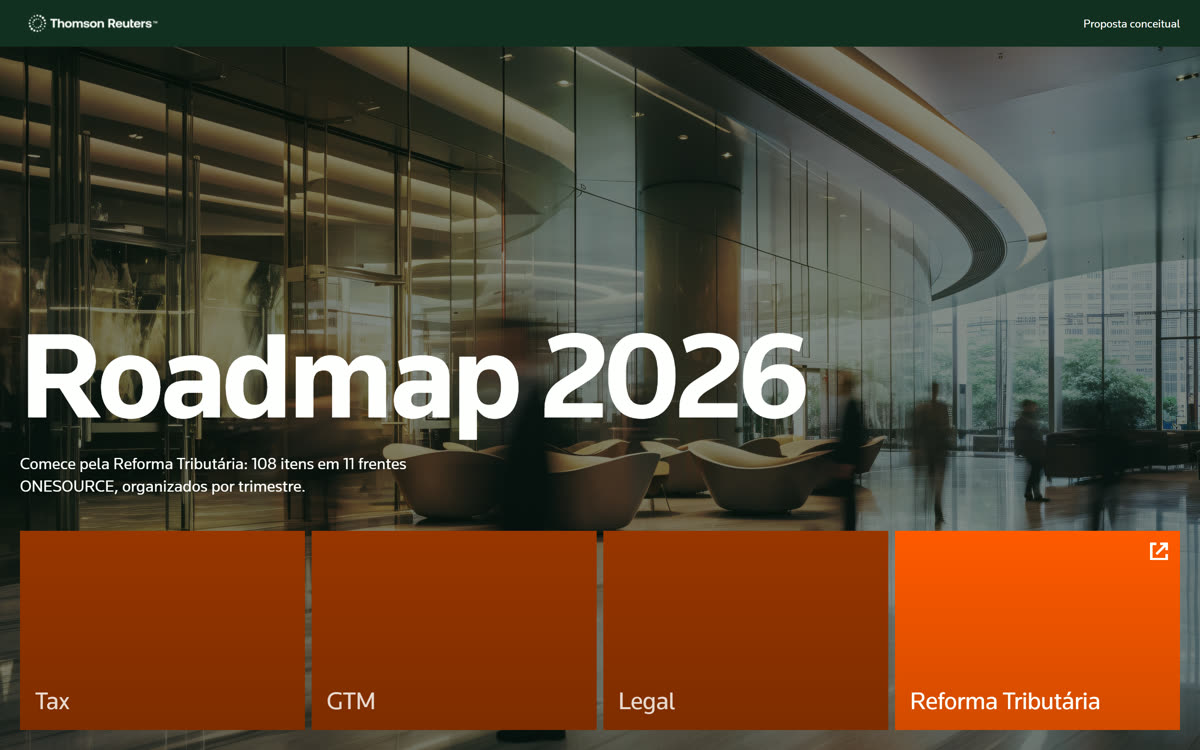
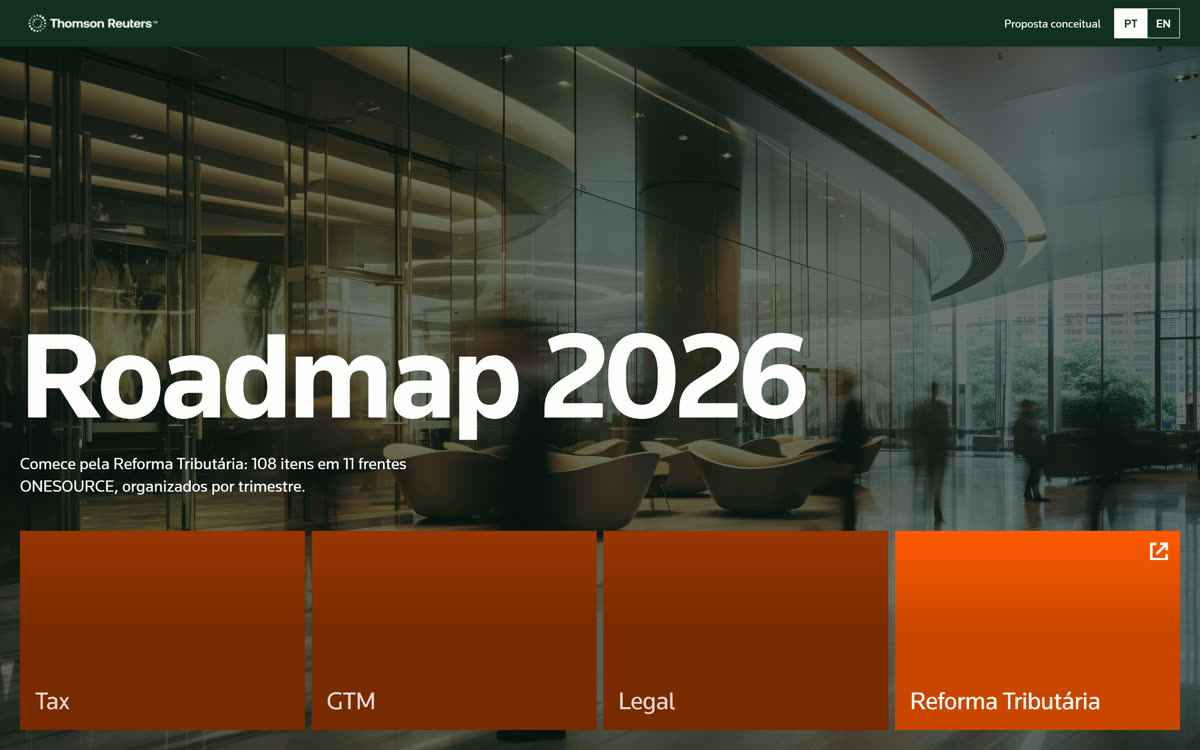
Atualiza capturas e landing do roadmap com o seletor de idioma

diff --git a/index.html b/index.html
@@ -1,6 +1,6 @@
 <!doctype html>
 <html lang="en"><head><meta charset="utf-8"><meta name="viewport" content="width=device-width,initial-scale=1"><meta name="theme-color" content="#1c1d1f"><title>Projects | Romulo Nascimento</title><meta name="description" content="Projects. Romulo Nascimento’s UX portfolio: digital products, 3D experiences and games."><meta property="og:title" content="Projects | Romulo Nascimento"><meta property="og:type" content="website"><meta property="og:url" content="https://romuload.github.io/"><meta property="og:image" content="https://romuload.github.io/images/repar-3d.png"><link rel="stylesheet" href="tokens.css?v=ux-1"><link rel="stylesheet" href="styles.css?v=ux-1"><script src="main.js" defer></script><link rel="stylesheet" href="locale.css?v=ux-1"><script src="locale-data.js?v=ux-6"></script><script src="locale.js?v=staffing-inbox-1" defer></script><link rel="icon" href="favicon.svg?v=plane-2" type="image/svg+xml"><link rel="alternate icon" href="favicon.ico?v=plane-2"><link rel="icon" type="image/png" href="favicon-32.png?v=plane-2" sizes="32x32"><link rel="icon" type="image/png" href="favicon-16.png?v=plane-2" sizes="16x16"><link rel="apple-touch-icon" href="apple-touch-icon.png?v=plane-2"><link rel="stylesheet" href="mockups.css?v=petrobras-mark-3"><link rel="stylesheet" href="profile.css?v=ux-1"><link rel="stylesheet" href="fiat-gallery.css?v=2"><link rel="stylesheet" href="phone-mockup.css?v=1"><link rel="stylesheet" href="laptop-mockup.css?v=1"><link rel="stylesheet" href="porto-gallery.css?v=3"><link rel="stylesheet" href="typography.css?v=ux-1"><script src="typography.js?v=widows-1" defer></script><link rel="stylesheet" href="system.css?v=ux-3"></head><body><a class="skip" href="#conteudo">Skip to content</a><div class="opening"><header class="header wrap"><a class="identity" href="index.html" aria-label="Romulo Nascimento, projects page"><img class="brand-symbol" src="images/brand/paper-plane.svg?v=2" width="58" height="42" alt=""><span class="name-text">Romulo Nascimento<small>Product Designer</small></span></a><nav aria-label="Main navigation"><a href="index.html" aria-current="page">Projects</a><a href="sobre.html">About me</a><a href="trabalhe-comigo.html">Work with me</a></nav><div class="lang-switch" role="group" aria-label="Choose language"><button type="button" data-language="en" aria-pressed="true" lang="en" aria-label="English">EN</button><button type="button" data-language="pt" aria-pressed="false" lang="pt-BR" aria-label="Português">PT</button></div></header><section class="intro wrap"><h1>Design connecting business,  technology and people.</h1><div class="brand-strip"><div class="brand-heading"><p>I’ve done work for</p><button id="logo-motion" class="carousel-control" type="button" aria-pressed="false">Pause carousel</button></div><div class="logo-window" role="region" aria-label="Clients: Petrobras, Itaú, Porto, Fiat, Thomson Reuters and Sonda IT"><div class="logo-track"><div class="logo-group"><div class="logo-slot"><img src="images/petrobras-mono.svg" alt="Petrobras" width="170" height="60" class="logo-petrobras"></div><div class="logo-slot"><img src="images/itau.svg" alt="Itaú" width="170" height="60" class="logo-itau"></div><div class="logo-slot"><img src="images/porto.svg" alt="Porto" width="170" height="60" class="logo-porto"></div><div class="logo-slot"><img src="images/fiat.svg" alt="Fiat" width="170" height="60" class="logo-fiat"></div><div class="logo-slot"><img src="images/thomson-reuters.svg" alt="Thomson Reuters" width="170" height="60" class="logo-thomson"></div><div class="logo-slot"><img src="images/sonda.svg" alt="Sonda IT" width="170" height="60" class="logo-sonda"></div></div><div class="logo-group" aria-hidden="true"><div class="logo-slot"><img src="images/petrobras-mono.svg" alt="" width="170" height="60" class="logo-petrobras"></div><div class="logo-slot"><img src="images/itau.svg" alt="" width="170" height="60" class="logo-itau"></div><div class="logo-slot"><img src="images/porto.svg" alt="" width="170" height="60" class="logo-porto"></div><div class="logo-slot"><img src="images/fiat.svg" alt="" width="170" height="60" class="logo-fiat"></div><div class="logo-slot"><img src="images/thomson-reuters.svg" alt="" width="170" height="60" class="logo-thomson"></div><div class="logo-slot"><img src="images/sonda.svg" alt="" width="170" height="60" class="logo-sonda"></div></div></div></div></div></section></div><main id="conteudo"><section class="projects wrap"><div class="section-line"><p>UX, interfaces and interactive experiences that turn complex subjects into simple paths.</p><h2>Selected projects</h2></div><div class="project-grid"><article class="project reveal"><div class="project-image image-porto laptop-stage" role="img" aria-label="Porto Seguro · Claims experience: interactive demo in a laptop mockup"><div class="laptop" aria-hidden="true"><div class="laptop-lid"><div class="laptop-screen"><div class="laptop-bar"><i></i><i></i><i></i><span>romuload.github.io</span></div><img src="images/porto/screen-dashboard.webp" width="1440" height="900" alt="" loading="lazy"></div></div><div class="laptop-base"></div></div></div><div class="project-meta"><span>Porto Seguro</span><span>Enterprise UX · Salesforce</span></div><h3>How I reduced claims analysis time by up to 60% at Porto Seguro</h3><p>Strategic redesign of a 40-year-old legacy platform, accelerating decision-making and increasing analyst confidence.</p><div class="project-links"><a class="button button-primary" href="projeto-porto.html" aria-label="Inside the project: How I reduced claims analysis time by up to 60% at Porto Seguro">Inside the project <span aria-hidden="true"><svg class="ico" viewBox="0 0 24 24" fill="none" stroke="currentColor" stroke-width="2" stroke-linecap="round" stroke-linejoin="round" aria-hidden="true"><path d="M5 12h14M13 6l6 6-6 6"/></svg></span></a><a class="button button-secondary" href="https://romuload.github.io/porto-salerforce-demo/" target="_blank" rel="noopener" aria-label="Explore the Porto Seguro demo in a new tab">Explore the demo <span aria-hidden="true"><svg class="ico" viewBox="0 0 24 24" fill="none" stroke="currentColor" stroke-width="2" stroke-linecap="round" stroke-linejoin="round" aria-hidden="true"><path d="M7 17 17 7M8 7h9v9"/></svg></span></a></div></article><article class="project reveal"><div class="project-image image-staffing laptop-stage" role="img" aria-label="GFT · Staffing Platform: working version in a laptop mockup"><div class="laptop" aria-hidden="true"><div class="laptop-lid"><div class="laptop-screen"><div class="laptop-bar"><i></i><i></i><i></i><span>romuload.github.io</span></div><img src="images/staffing/screen-disponiveis.webp" width="1440" height="900" alt="" loading="lazy"></div></div><div class="laptop-base"></div></div></div><div class="project-meta"><span>GFT Technologies</span><span>Product Design · Internal product</span></div><h3>How I helped GFT cut the cost of its bench by 72%</h3><p>An internal product that replaced a spreadsheet emailed every morning, and turned reallocating people between projects into a process with clear rules.</p><div class="project-links"><a class="button button-primary" href="projeto-staffing.html" aria-label="Inside the project: How I helped GFT cut the cost of its bench by 72%">Inside the project <span aria-hidden="true"><svg class="ico" viewBox="0 0 24 24" fill="none" stroke="currentColor" stroke-width="2" stroke-linecap="round" stroke-linejoin="round" aria-hidden="true"><path d="M5 12h14M13 6l6 6-6 6"/></svg></span></a><a class="button button-secondary" href="staffing-concept/index.html" target="_blank" rel="noopener" aria-label="Explore the GFT Staffing demo in a new tab">Explore the demo <span aria-hidden="true"><svg class="ico" viewBox="0 0 24 24" fill="none" stroke="currentColor" stroke-width="2" stroke-linecap="round" stroke-linejoin="round" aria-hidden="true"><path d="M7 17 17 7M8 7h9v9"/></svg></span></a></div></article>
-<article class="project reveal"><div class="project-image image-roadmap laptop-stage" role="img" aria-label="Thomson Reuters roadmap proposal: desktop and mobile screens in laptop and phone mockups" style="--status-bg:#123021"><div class="laptop" aria-hidden="true"><div class="laptop-lid"><div class="laptop-screen"><div class="laptop-bar"><i></i><i></i><i></i><span>romuload.github.io</span></div><img src="images/roadmap/screen-home.webp" width="2880" height="1800" alt="" loading="lazy"></div></div><div class="laptop-base"></div></div><div class="iphone phone-dark" aria-hidden="true"><i class="iphone-key iphone-action"></i><i class="iphone-key iphone-vol-up"></i><i class="iphone-key iphone-vol-down"></i><i class="iphone-key iphone-power"></i><div class="iphone-body"><div class="iphone-bezel"><div class="iphone-screen"><div class="iphone-status"><span>9:41</span><i class="iphone-island"></i><i class="iphone-icons"></i></div><img src="images/phone/roadmap.jpg" width="780" height="1580" alt="" loading="lazy"><div class="iphone-safari"><i class="safari-btn safari-back"></i><span class="safari-url">romuload.github.io</span><i class="safari-btn safari-more"></i></div><i class="iphone-home"></i></div></div></div></div></div><div class="project-meta"><span>Thomson Reuters</span><span>Web design · Proposal</span></div><h3>A new proposal for the Thomson Reuters product roadmap</h3><p>I created this website in 2021, and it’s still live for customers. With Claude, I created a new proposal in 30 minutes.</p><div class="project-links"><a class="button button-primary" href="projeto-roadmap.html" aria-label="Inside the project: A new proposal for the Thomson Reuters product roadmap">Inside the project <span aria-hidden="true"><svg class="ico" viewBox="0 0 24 24" fill="none" stroke="currentColor" stroke-width="2" stroke-linecap="round" stroke-linejoin="round" aria-hidden="true"><path d="M5 12h14M13 6l6 6-6 6"/></svg></span></a><a class="button button-secondary" href="https://romuload.github.io/roadmap-tr/" target="_blank" rel="noopener" aria-label="Explore the Thomson Reuters roadmap demo in a new tab">Explore the demo <span aria-hidden="true"><svg class="ico" viewBox="0 0 24 24" fill="none" stroke="currentColor" stroke-width="2" stroke-linecap="round" stroke-linejoin="round" aria-hidden="true"><path d="M7 17 17 7M8 7h9v9"/></svg></span></a></div></article>
+<article class="project reveal"><div class="project-image image-roadmap laptop-stage" role="img" aria-label="Thomson Reuters roadmap proposal: desktop and mobile screens in laptop and phone mockups" style="--status-bg:#123021"><div class="laptop" aria-hidden="true"><div class="laptop-lid"><div class="laptop-screen"><div class="laptop-bar"><i></i><i></i><i></i><span>romuload.github.io</span></div><img src="images/roadmap/screen-home.webp?v=2" width="2880" height="1800" alt="" loading="lazy"></div></div><div class="laptop-base"></div></div><div class="iphone phone-dark" aria-hidden="true"><i class="iphone-key iphone-action"></i><i class="iphone-key iphone-vol-up"></i><i class="iphone-key iphone-vol-down"></i><i class="iphone-key iphone-power"></i><div class="iphone-body"><div class="iphone-bezel"><div class="iphone-screen"><div class="iphone-status"><span>9:41</span><i class="iphone-island"></i><i class="iphone-icons"></i></div><img src="images/phone/roadmap.jpg?v=2" width="780" height="1580" alt="" loading="lazy"><div class="iphone-safari"><i class="safari-btn safari-back"></i><span class="safari-url">romuload.github.io</span><i class="safari-btn safari-more"></i></div><i class="iphone-home"></i></div></div></div></div></div><div class="project-meta"><span>Thomson Reuters</span><span>Web design · Proposal</span></div><h3>A new proposal for the Thomson Reuters product roadmap</h3><p>I created this website in 2021, and it’s still live for customers. With Claude, I created a new proposal in 30 minutes.</p><div class="project-links"><a class="button button-primary" href="projeto-roadmap.html" aria-label="Inside the project: A new proposal for the Thomson Reuters product roadmap">Inside the project <span aria-hidden="true"><svg class="ico" viewBox="0 0 24 24" fill="none" stroke="currentColor" stroke-width="2" stroke-linecap="round" stroke-linejoin="round" aria-hidden="true"><path d="M5 12h14M13 6l6 6-6 6"/></svg></span></a><a class="button button-secondary" href="https://romuload.github.io/roadmap-tr/" target="_blank" rel="noopener" aria-label="Explore the Thomson Reuters roadmap demo in a new tab">Explore the demo <span aria-hidden="true"><svg class="ico" viewBox="0 0 24 24" fill="none" stroke="currentColor" stroke-width="2" stroke-linecap="round" stroke-linejoin="round" aria-hidden="true"><path d="M7 17 17 7M8 7h9v9"/></svg></span></a></div></article>
 <article class="project reveal"><div class="project-image image-repar phone-stage phone-dark" role="img" aria-label="Explore REPAR 3D: mobile screen in a phone mockup" style="--status-bg:#0e2133"><div class="iphone" aria-hidden="true"><i class="iphone-key iphone-action"></i><i class="iphone-key iphone-vol-up"></i><i class="iphone-key iphone-vol-down"></i><i class="iphone-key iphone-power"></i><div class="iphone-body"><div class="iphone-bezel"><div class="iphone-screen"><div class="iphone-status"><span>9:41</span><i class="iphone-island"></i><i class="iphone-icons"></i></div><img src="images/phone/repar.jpg" width="780" height="1580" alt="" loading="lazy"><div class="iphone-safari"><i class="safari-btn safari-back"></i><span class="safari-url">romuload.github.io</span><i class="safari-btn safari-more"></i></div><i class="iphone-home"></i></div></div></div></div></div><div class="project-meta"><span>Petrobras</span><span>Interactive experience</span></div><h3>Explore REPAR 3D</h3><p>From the original illustrated journey to an interactive 3D refinery.</p><div class="project-links"><a class="button button-primary" href="projeto-repar.html" aria-label="Inside the project: Explore REPAR 3D">Inside the project <span aria-hidden="true"><svg class="ico" viewBox="0 0 24 24" fill="none" stroke="currentColor" stroke-width="2" stroke-linecap="round" stroke-linejoin="round" aria-hidden="true"><path d="M5 12h14M13 6l6 6-6 6"/></svg></span></a><a class="button button-secondary" href="https://romuload.github.io/conheca_repar_versao3d/" target="_blank" rel="noopener" aria-label="Explore the REPAR 3D demo in a new tab">Explore the demo <span aria-hidden="true"><svg class="ico" viewBox="0 0 24 24" fill="none" stroke="currentColor" stroke-width="2" stroke-linecap="round" stroke-linejoin="round" aria-hidden="true"><path d="M7 17 17 7M8 7h9v9"/></svg></span></a></div></article><article class="project reveal"><div class="project-image image-ilab phone-stage" role="img" aria-label="iLab 3.0: mobile screen in a phone mockup" style="--status-bg:#ffffff"><div class="iphone" aria-hidden="true"><i class="iphone-key iphone-action"></i><i class="iphone-key iphone-vol-up"></i><i class="iphone-key iphone-vol-down"></i><i class="iphone-key iphone-power"></i><div class="iphone-body"><div class="iphone-bezel"><div class="iphone-screen"><div class="iphone-status"><span>9:41</span><i class="iphone-island"></i><i class="iphone-icons"></i></div><img src="images/phone/ilab.jpg" width="780" height="1580" alt="" loading="lazy"><div class="iphone-safari"><i class="safari-btn safari-back"></i><span class="safari-url">romuload.github.io</span><i class="safari-btn safari-more"></i></div><i class="iphone-home"></i></div></div></div></div></div><div class="project-meta"><span>Petrobras</span><span>UX/UI &amp; prototyping</span></div><h3>iLab 3.0</h3><p>Queries, results and a 3D bench in one experience.</p><div class="project-links"><a class="button button-primary" href="projeto-ilab.html" aria-label="Inside the project: iLab 3.0">Inside the project <span aria-hidden="true"><svg class="ico" viewBox="0 0 24 24" fill="none" stroke="currentColor" stroke-width="2" stroke-linecap="round" stroke-linejoin="round" aria-hidden="true"><path d="M5 12h14M13 6l6 6-6 6"/></svg></span></a><a class="button button-secondary" href="https://romuload.github.io/ilab/" target="_blank" rel="noopener" aria-label="Explore the iLab 3.0 demo in a new tab">Explore the demo <span aria-hidden="true"><svg class="ico" viewBox="0 0 24 24" fill="none" stroke="currentColor" stroke-width="2" stroke-linecap="round" stroke-linejoin="round" aria-hidden="true"><path d="M7 17 17 7M8 7h9v9"/></svg></span></a></div></article><article class="project reveal"><div class="project-image image-games phone-stage" role="img" aria-label="REPAR Word Search: mobile screen in a phone mockup" style="--status-bg:#ffffff"><div class="iphone" aria-hidden="true"><i class="iphone-key iphone-action"></i><i class="iphone-key iphone-vol-up"></i><i class="iphone-key iphone-vol-down"></i><i class="iphone-key iphone-power"></i><div class="iphone-body"><div class="iphone-bezel"><div class="iphone-screen"><div class="iphone-status"><span>9:41</span><i class="iphone-island"></i><i class="iphone-icons"></i></div><img src="images/phone/games.jpg" width="780" height="1580" alt="" loading="lazy"><div class="iphone-safari"><i class="safari-btn safari-back"></i><span class="safari-url">romuload.github.io</span><i class="safari-btn safari-more"></i></div><i class="iphone-home"></i></div></div></div></div></div><div class="project-meta"><span>Petrobras</span><span>Games &amp; aprendizagem</span></div><h3>REPAR Word Search</h3><p>The refinery&#x27;s world in a discovery game for desktop and mobile.</p><div class="project-links"><a class="button button-primary" href="projeto-games.html" aria-label="Inside the project: REPAR Word Search">Inside the project <span aria-hidden="true"><svg class="ico" viewBox="0 0 24 24" fill="none" stroke="currentColor" stroke-width="2" stroke-linecap="round" stroke-linejoin="round" aria-hidden="true"><path d="M5 12h14M13 6l6 6-6 6"/></svg></span></a><a class="button button-secondary" href="https://romuload.github.io/caca-palavras/" target="_blank" rel="noopener" aria-label="Explore the REPAR Word Search demo in a new tab">Explore the demo <span aria-hidden="true"><svg class="ico" viewBox="0 0 24 24" fill="none" stroke="currentColor" stroke-width="2" stroke-linecap="round" stroke-linejoin="round" aria-hidden="true"><path d="M7 17 17 7M8 7h9v9"/></svg></span></a></div></article>
 <article class="project reveal"><div class="project-image image-fiat phone-stage phone-dark" role="img" aria-label="FIAT · Water Cycle: mobile screen in a phone mockup" style="--status-bg:#090e14"><div class="iphone" aria-hidden="true"><i class="iphone-key iphone-action"></i><i class="iphone-key iphone-vol-up"></i><i class="iphone-key iphone-vol-down"></i><i class="iphone-key iphone-power"></i><div class="iphone-body"><div class="iphone-bezel"><div class="iphone-screen"><div class="iphone-status"><span>9:41</span><i class="iphone-island"></i><i class="iphone-icons"></i></div><img src="images/phone/fiat.jpg" width="780" height="1580" alt="" loading="lazy"><div class="iphone-safari"><i class="safari-btn safari-back"></i><span class="safari-url">romuload.github.io</span><i class="safari-btn safari-more"></i></div><i class="iphone-home"></i></div></div></div></div></div><div class="project-meta"><span>FIAT</span><span>3D & motion design</span></div><h3>FIAT · Water Cycle</h3><p>An interactive journey through water treatment and reuse, with motion deliverables.</p><div class="project-links"><a class="button button-primary" href="projeto-fiat.html" aria-label="Inside the project: FIAT · Water Cycle">Inside the project <span aria-hidden="true"><svg class="ico" viewBox="0 0 24 24" fill="none" stroke="currentColor" stroke-width="2" stroke-linecap="round" stroke-linejoin="round" aria-hidden="true"><path d="M5 12h14M13 6l6 6-6 6"/></svg></span></a><a class="button button-secondary" href="https://romuload.github.io/fiat-agua-em-ciclo/" target="_blank" rel="noopener" aria-label="Explore the FIAT · Water Cycle demo in a new tab">Explore the demo <span aria-hidden="true"><svg class="ico" viewBox="0 0 24 24" fill="none" stroke="currentColor" stroke-width="2" stroke-linecap="round" stroke-linejoin="round" aria-hidden="true"><path d="M7 17 17 7M8 7h9v9"/></svg></span></a></div></article>
 </div></section></main><footer class="wrap"><span>© <span id="year">2026</span> Romulo Nascimento</span><a href="trabalhe-comigo.html">Work with me</a></footer><script>(function(){var h=document.querySelector('.opening>.header');if(!h)return;function u(){h.classList.toggle('is-stuck',window.scrollY>8)}addEventListener('scroll',u,{passive:true});u()})();</script></body></html>

diff --git a/projeto-roadmap.html b/projeto-roadmap.html
@@ -1,2 +1,2 @@
 <!doctype html>
-<html lang="en"><head><meta charset="utf-8"><meta name="viewport" content="width=device-width,initial-scale=1"><meta name="theme-color" content="#0c1f16"><title>Thomson Reuters roadmap · Proposal | Romulo Nascimento</title><meta name="description" content="A new proposal for the Thomson Reuters product roadmap, by Romulo Nascimento."><meta property="og:title" content="Thomson Reuters roadmap · Proposal | Romulo Nascimento"><meta property="og:type" content="website"><meta property="og:url" content="https://romuload.github.io/projeto-roadmap.html"><meta property="og:image" content="https://romuload.github.io/images/roadmap/og.jpg"><script src="repar-case.js" defer></script><link rel="stylesheet" href="tokens.css?v=ux-1"><link rel="stylesheet" href="locale.css?v=ux-1"><script src="locale-data.js?v=ux-7"></script><script src="locale.js?v=staffing-inbox-1" defer></script><link rel="icon" href="favicon.svg?v=plane-2" type="image/svg+xml"><link rel="alternate icon" href="favicon.ico?v=plane-2"><link rel="icon" type="image/png" href="favicon-32.png?v=plane-2" sizes="32x32"><link rel="icon" type="image/png" href="favicon-16.png?v=plane-2" sizes="16x16"><link rel="apple-touch-icon" href="apple-touch-icon.png?v=plane-2"><link rel="stylesheet" href="repar-case.css?v=ux-1"><link rel="stylesheet" href="roadmap-case.css?v=1"><link rel="stylesheet" href="typography.css?v=ux-1"><script src="typography.js?v=widows-1" defer></script><link rel="stylesheet" href="system.css?v=ux-3"></head><body><a class="case-skip" href="#conteudo">Skip to content</a><header class="top"><a class="portfolio-home" href="index.html" aria-label="Romulo Nascimento, projects page"><img class="brand-symbol" src="images/brand/paper-plane.svg?v=2" width="52" height="38" alt=""><span class="name-text">Romulo Nascimento<small>Product Designer</small></span></a><span class="sp"></span><nav aria-label="Main navigation"><a href="index.html">Projects</a><a href="sobre.html">About me</a><a href="trabalhe-comigo.html">Work with me</a></nav><div class="lang-switch" role="group" aria-label="Choose language"><button type="button" data-language="en" aria-pressed="true" lang="en" aria-label="English">EN</button><button type="button" data-language="pt" aria-pressed="false" lang="pt-BR" aria-label="Português">PT</button></div></header><main id="conteudo"><section class="hero"><div class="wrap"><p class="eyebrow">Thomson Reuters · Product roadmap · Proposal</p><h1>A website from 2021. <span class="grad">A new proposal in 30 minutes.</span></h1><p class="lead">I created this website in 2021, and it’s still live, sharing the product roadmap with customers. With Claude, I created a new proposal in 30 minutes and put it live.</p><div class="hero-actions"><a class="btn pri" href="https://romuload.github.io/roadmap-tr/" target="_blank" rel="noopener"><span>Explore the proposal</span><span aria-hidden="true"><svg class="ico" viewBox="0 0 24 24" fill="none" stroke="currentColor" stroke-width="2" stroke-linecap="round" stroke-linejoin="round" aria-hidden="true"><path d="M7 17 17 7M8 7h9v9"/></svg></span></a><a class="btn" href="#comparison">Compare before and after</a></div><div class="hero-image browser"><div class="bar">romuload.github.io/roadmap-tr/</div><div class="screen roadmap-screen"><img src="images/roadmap/screen-home.webp" width="2880" height="1800" alt="Proposal home: Roadmap 2026 with four cards, of which only Tax Reform is clickable" fetchpriority="high"></div></div></div></section><section class="sec"><div class="wrap context-grid"><h2>The roadmap as an annual report.</h2><div><p>The Tax Reform roadmap gathers 108 items across 11 product lines. The problem isn’t the amount of information, but the lack of hierarchy: everything carries the same weight.</p><p>The proposal organizes the content around the question people bring to it: what changes, and when? The four quarters of 2026 become the axis of the experience, with layers that go from the overview to the detail. It’s a concept proposal, not an official Thomson Reuters website.</p></div></div></section><section class="sec"><div class="wrap"><div class="sec-head"><p class="eyebrow">Design decisions</p><h2>Ten decisions, one question: what changes, and when?</h2></div><div class="evolution-grid"><article><h3>Quarters as the axis</h3><p>Time is what all product lines have in common, and it’s how a regulatory change gets planned.</p></article><article><h3>Reading in layers</h3><p>Year, map, product line and item: an overview doesn’t require going through the detail, and a specific search gets there faster.</p></article><article><h3>Panels that stack on scroll</h3><p>The movement marks the passing of time and gives the content a rhythm. It isn’t just a visual effect.</p></article><article><h3>A map by quarter</h3><p>It shows the size of the roadmap on one screen and links straight to each product line.</p></article><article><h3>Theme and status filters</h3><p>Each customer has a different interest, such as CBS or NFS-e, and the filters cut the content by that interest.</p></article><article><h3>Items that open on demand</h3><p>This reduces the visual load without removing content: the original text stays on the page.</p></article><article><h3>Status always visible</h3><p>Delivered, planned or no status is shown before the item is opened, because it’s a key part of the answer.</p></article><article><h3>Four cards, only one active</h3><p>The home shows the whole structure and focuses the proposal on the densest area, the best test for the concept.</p></article><article><h3>The brand’s visual language</h3><p>Colours, type, spacing and icons bring the roadmap closer to the Thomson Reuters Brazil website.</p></article><article><h3>Static HTML</h3><p>Publishing stays simple, and the text remains available even if the scripts fail.</p></article></div></div></section><section class="sec comparison" id="comparison"><div class="wrap"><div class="sec-head"><p class="eyebrow">Before &amp; after</p><h2>The same page. <span class="grad">A new reading.</span></h2><p class="lead">Move the divider to compare the current page with the proposal.</p></div><div class="ba browser" id="repar-comparison" style="--x:50%"><div class="bar">romuload.github.io</div><div class="screen"><img src="images/roadmap/before.webp" width="2560" height="1440" loading="lazy" alt="Before: current Tax Reform page, with text in four columns"><img class="after" src="images/roadmap/after.webp" width="2560" height="1440" loading="lazy" alt="After: proposal for the Tax Reform page, with a mosaic of quarters"><span class="lbl l">Before · Current website</span><span class="lbl r">After · Proposal</span><input id="repar-slider" type="range" min="0" max="100" value="50" aria-label="Compare the current page and the proposal"><div class="handle"></div></div></div><p class="comparison-hint">Drag horizontally, tap the comparison or use the arrow keys when the slider is focused.</p></div></section><section class="sec"><div class="wrap context-grid"><h2>A hypothesis to validate.</h2><div><p>This proposal hasn’t been tested with users. The hypothesis is that customers will find what they need faster, and the next step would be to validate that with them.</p><p>The 30 minutes show the speed of exploration, not the time of a complete project. Validation, content review and font and photo licensing are still to come.</p></div></div></section><section class="sec" id="versions"><div class="wrap"><div class="sec-head"><p class="eyebrow">Try the experience</p><h2>Two versions. One roadmap.</h2><p class="lead">Open each version to see how it presents the same roadmap.</p></div><div class="versions"><article class="version"><img src="images/roadmap/before.webp" width="2560" height="1440" loading="lazy" alt="The current website"><h3>The current website</h3><p>Created in 2021 and still live, sharing the product roadmap with customers.</p><a class="btn pri" href="https://roadmap.thomsonreuters.com/reforma_2026.html" target="_blank" rel="noopener"><span>Open the current website</span><span aria-hidden="true"><svg class="ico" viewBox="0 0 24 24" fill="none" stroke="currentColor" stroke-width="2" stroke-linecap="round" stroke-linejoin="round" aria-hidden="true"><path d="M7 17 17 7M8 7h9v9"/></svg></span></a></article><article class="version"><img src="images/roadmap/after.webp" width="2560" height="1440" loading="lazy" alt="The proposal"><h3>The proposal</h3><p>The roadmap organized by quarter, with a map and filters.</p><a class="btn pri" href="https://romuload.github.io/roadmap-tr/" target="_blank" rel="noopener"><span>Open the proposal</span><span aria-hidden="true"><svg class="ico" viewBox="0 0 24 24" fill="none" stroke="currentColor" stroke-width="2" stroke-linecap="round" stroke-linejoin="round" aria-hidden="true"><path d="M7 17 17 7M8 7h9v9"/></svg></span></a></article></div></div></section></main><footer class="wrap case-footer"><span>© <span id="year">2026</span> Romulo Nascimento</span><a href="index.html"><svg class="ico" viewBox="0 0 24 24" fill="none" stroke="currentColor" stroke-width="2" stroke-linecap="round" stroke-linejoin="round" aria-hidden="true"><path d="M19 12H5M11 6l-6 6 6 6"/></svg> All projects</a><a href="trabalhe-comigo.html">Work with me</a></footer></body></html>
+<html lang="en"><head><meta charset="utf-8"><meta name="viewport" content="width=device-width,initial-scale=1"><meta name="theme-color" content="#0c1f16"><title>Thomson Reuters roadmap · Proposal | Romulo Nascimento</title><meta name="description" content="A new proposal for the Thomson Reuters product roadmap, by Romulo Nascimento."><meta property="og:title" content="Thomson Reuters roadmap · Proposal | Romulo Nascimento"><meta property="og:type" content="website"><meta property="og:url" content="https://romuload.github.io/projeto-roadmap.html"><meta property="og:image" content="https://romuload.github.io/images/roadmap/og.jpg?v=2"><script src="repar-case.js" defer></script><link rel="stylesheet" href="tokens.css?v=ux-1"><link rel="stylesheet" href="locale.css?v=ux-1"><script src="locale-data.js?v=ux-8"></script><script src="locale.js?v=staffing-inbox-1" defer></script><link rel="icon" href="favicon.svg?v=plane-2" type="image/svg+xml"><link rel="alternate icon" href="favicon.ico?v=plane-2"><link rel="icon" type="image/png" href="favicon-32.png?v=plane-2" sizes="32x32"><link rel="icon" type="image/png" href="favicon-16.png?v=plane-2" sizes="16x16"><link rel="apple-touch-icon" href="apple-touch-icon.png?v=plane-2"><link rel="stylesheet" href="repar-case.css?v=ux-1"><link rel="stylesheet" href="roadmap-case.css?v=1"><link rel="stylesheet" href="typography.css?v=ux-1"><script src="typography.js?v=widows-1" defer></script><link rel="stylesheet" href="system.css?v=ux-3"></head><body><a class="case-skip" href="#conteudo">Skip to content</a><header class="top"><a class="portfolio-home" href="index.html" aria-label="Romulo Nascimento, projects page"><img class="brand-symbol" src="images/brand/paper-plane.svg?v=2" width="52" height="38" alt=""><span class="name-text">Romulo Nascimento<small>Product Designer</small></span></a><span class="sp"></span><nav aria-label="Main navigation"><a href="index.html">Projects</a><a href="sobre.html">About me</a><a href="trabalhe-comigo.html">Work with me</a></nav><div class="lang-switch" role="group" aria-label="Choose language"><button type="button" data-language="en" aria-pressed="true" lang="en" aria-label="English">EN</button><button type="button" data-language="pt" aria-pressed="false" lang="pt-BR" aria-label="Português">PT</button></div></header><main id="conteudo"><section class="hero"><div class="wrap"><p class="eyebrow">Thomson Reuters · Product roadmap · Proposal</p><h1>A website from 2021. <span class="grad">A new proposal in 30 minutes.</span></h1><p class="lead">I created this website in 2021, and it’s still live, sharing the product roadmap with customers. With Claude, I created a new proposal in 30 minutes and put it live.</p><div class="hero-actions"><a class="btn pri" href="https://romuload.github.io/roadmap-tr/" target="_blank" rel="noopener"><span>Explore the proposal</span><span aria-hidden="true"><svg class="ico" viewBox="0 0 24 24" fill="none" stroke="currentColor" stroke-width="2" stroke-linecap="round" stroke-linejoin="round" aria-hidden="true"><path d="M7 17 17 7M8 7h9v9"/></svg></span></a><a class="btn" href="#comparison">Compare before and after</a></div><div class="hero-image browser"><div class="bar">romuload.github.io/roadmap-tr/</div><div class="screen roadmap-screen"><img src="images/roadmap/screen-home.webp?v=2" width="2880" height="1800" alt="Proposal home: Roadmap 2026 with four cards, of which only Tax Reform is clickable" fetchpriority="high"></div></div></div></section><section class="sec"><div class="wrap context-grid"><h2>The roadmap as an annual report.</h2><div><p>The Tax Reform roadmap gathers 108 items across 11 product lines. The problem isn’t the amount of information, but the lack of hierarchy: everything carries the same weight.</p><p>The proposal organizes the content around the question people bring to it: what changes, and when? The four quarters of 2026 become the axis of the experience, with layers that go from the overview to the detail. It’s a concept proposal, not an official Thomson Reuters website.</p></div></div></section><section class="sec"><div class="wrap"><div class="sec-head"><p class="eyebrow">Design decisions</p><h2>Twelve decisions, one question: what changes, and when?</h2></div><div class="evolution-grid"><article><h3>Quarters as the axis</h3><p>Time is what all product lines have in common, and it’s how a regulatory change gets planned.</p></article><article><h3>Reading in layers</h3><p>Year, map, product line and item: an overview doesn’t require going through the detail, and a specific search gets there faster.</p></article><article><h3>Panels that stack on scroll</h3><p>The movement marks the passing of time and gives the content a rhythm. It isn’t just a visual effect.</p></article><article><h3>A map by quarter</h3><p>It shows the size of the roadmap on one screen and links straight to each product line.</p></article><article><h3>Theme and status filters</h3><p>Each customer has a different interest, such as CBS or NFS-e, and the filters cut the content by that interest.</p></article><article><h3>Items that open on demand</h3><p>This reduces the visual load without removing content: the original text stays on the page.</p></article><article><h3>Status always visible</h3><p>Delivered, planned or no status is shown before the item is opened, because it’s a key part of the answer.</p></article><article><h3>Four cards, only one active</h3><p>The home shows the whole structure and focuses the proposal on the densest area, the best test for the concept.</p></article><article><h3>The brand’s visual language</h3><p>Colours, type, spacing and icons bring the roadmap closer to the Thomson Reuters Brazil website.</p></article><article><h3>Portuguese and English</h3><p>A switch in the header changes the language and keeps the current section, for customers who follow the roadmap in either language.</p></article><article><h3>Contrast measured</h3><p>Text contrast was measured in both languages, on desktop and mobile, against the WCAG AA minimum, including active filters.</p></article><article><h3>Static HTML</h3><p>Publishing stays simple, and the text remains available even if the scripts fail.</p></article></div></div></section><section class="sec comparison" id="comparison"><div class="wrap"><div class="sec-head"><p class="eyebrow">Before &amp; after</p><h2>The same page. <span class="grad">A new reading.</span></h2><p class="lead">Move the divider to compare the current page with the proposal.</p></div><div class="ba browser" id="repar-comparison" style="--x:50%"><div class="bar">romuload.github.io</div><div class="screen"><img src="images/roadmap/before.webp" width="2560" height="1440" loading="lazy" alt="Before: current Tax Reform page, with text in four columns"><img class="after" src="images/roadmap/after.webp?v=2" width="2560" height="1440" loading="lazy" alt="After: proposal for the Tax Reform page, with a mosaic of quarters"><span class="lbl l">Before · Current website</span><span class="lbl r">After · Proposal</span><input id="repar-slider" type="range" min="0" max="100" value="50" aria-label="Compare the current page and the proposal"><div class="handle"></div></div></div><p class="comparison-hint">Drag horizontally, tap the comparison or use the arrow keys when the slider is focused.</p></div></section><section class="sec"><div class="wrap context-grid"><h2>A hypothesis to validate.</h2><div><p>This proposal hasn’t been tested with users. The hypothesis is that customers will find what they need faster, and the next step would be to validate that with them.</p><p>The 30 minutes show the speed of exploration, not the time of a complete project. Validation, content review and font and photo licensing are still to come.</p></div></div></section><section class="sec" id="versions"><div class="wrap"><div class="sec-head"><p class="eyebrow">Try the experience</p><h2>Two versions. One roadmap.</h2><p class="lead">Open each version to see how it presents the same roadmap.</p></div><div class="versions"><article class="version"><img src="images/roadmap/before.webp" width="2560" height="1440" loading="lazy" alt="The current website"><h3>The current website</h3><p>Created in 2021 and still live, sharing the product roadmap with customers.</p><a class="btn pri" href="https://roadmap.thomsonreuters.com/reforma_2026.html" target="_blank" rel="noopener"><span>Open the current website</span><span aria-hidden="true"><svg class="ico" viewBox="0 0 24 24" fill="none" stroke="currentColor" stroke-width="2" stroke-linecap="round" stroke-linejoin="round" aria-hidden="true"><path d="M7 17 17 7M8 7h9v9"/></svg></span></a></article><article class="version"><img src="images/roadmap/after.webp?v=2" width="2560" height="1440" loading="lazy" alt="The proposal"><h3>The proposal</h3><p>The roadmap organized by quarter, with a map and filters, in Portuguese and English.</p><a class="btn pri" href="https://romuload.github.io/roadmap-tr/" target="_blank" rel="noopener"><span>Open the proposal</span><span aria-hidden="true"><svg class="ico" viewBox="0 0 24 24" fill="none" stroke="currentColor" stroke-width="2" stroke-linecap="round" stroke-linejoin="round" aria-hidden="true"><path d="M7 17 17 7M8 7h9v9"/></svg></span></a></article></div></div></section></main><footer class="wrap case-footer"><span>© <span id="year">2026</span> Romulo Nascimento</span><a href="index.html"><svg class="ico" viewBox="0 0 24 24" fill="none" stroke="currentColor" stroke-width="2" stroke-linecap="round" stroke-linejoin="round" aria-hidden="true"><path d="M19 12H5M11 6l-6 6 6 6"/></svg> All projects</a><a href="trabalhe-comigo.html">Work with me</a></footer></body></html>

diff --git a/locale-data.js b/locale-data.js
@@ -2969,7 +2969,7 @@ window.PORTFOLIO_TRANSLATIONS.push(...[
   ["The current website","O website atual"],
   ["Created in 2021 and still live, sharing the product roadmap with customers.","Criado em 2021 e ainda no ar, divulgando o roadmap de produtos aos clientes."],
   ["Open the current website","Abrir o website atual"],
-  ["The roadmap organized by quarter, with a map and filters.","O roadmap organizado por trimestre, com mapa e filtros."],
+  ["The roadmap organized by quarter, with a map and filters, in Portuguese and English.","O roadmap organizado por trimestre, com mapa e filtros, em português e inglês."],
   ["Open the proposal","Abrir a proposta"],
   ["Thomson Reuters roadmap proposal: desktop and mobile screens in laptop and phone mockups","Proposta do roadmap Thomson Reuters: telas desktop e mobile em mockups de notebook e celular"],
   ["Web design · Proposal","Web design · Proposta"],
@@ -2981,7 +2981,7 @@ window.PORTFOLIO_TRANSLATIONS.push(...[
   ["The Tax Reform roadmap gathers 108 items across 11 product lines. The problem isn’t the amount of information, but the lack of hierarchy: everything carries the same weight.","O roadmap da Reforma Tributária reúne 108 itens em 11 frentes de produto. O problema não é a quantidade de informação, e sim a falta de hierarquia: tudo aparece com o mesmo peso."],
   ["The proposal organizes the content around the question people bring to it: what changes, and when? The four quarters of 2026 become the axis of the experience, with layers that go from the overview to the detail. It’s a concept proposal, not an official Thomson Reuters website.","A proposta organiza o conteúdo em torno da pergunta de quem o consulta: o que muda e quando? Os quatro trimestres de 2026 viram o eixo da experiência, com camadas que vão da visão geral ao detalhe. É uma proposta conceitual, não um site oficial da Thomson Reuters."],
   ["Design decisions","Decisões de design"],
-  ["Ten decisions, one question: what changes, and when?","Dez decisões, uma pergunta: o que muda e quando?"],
+  ["Twelve decisions, one question: what changes, and when?","Doze decisões, uma pergunta: o que muda e quando?"],
   ["Quarters as the axis","Trimestres como eixo"],
   ["Time is what all product lines have in common, and it’s how a regulatory change gets planned.","O tempo é o que todas as frentes têm em comum e é como se planeja uma adaptação regulatória."],
   ["Reading in layers","Leitura em camadas"],
@@ -3004,5 +3004,9 @@ window.PORTFOLIO_TRANSLATIONS.push(...[
   ["Publishing stays simple, and the text remains available even if the scripts fail.","A publicação fica simples, e o texto continua disponível mesmo se os scripts falharem."],
   ["A hypothesis to validate.","Uma hipótese a validar."],
   ["This proposal hasn’t been tested with users. The hypothesis is that customers will find what they need faster, and the next step would be to validate that with them.","Esta proposta não foi testada com usuários. A hipótese é que os clientes encontrem mais rápido o que procuram, e o próximo passo seria validar isso com eles."],
-  ["The 30 minutes show the speed of exploration, not the time of a complete project. Validation, content review and font and photo licensing are still to come.","Os 30 minutos mostram a velocidade de exploração, não o tempo de um projeto completo. Validação, revisão de conteúdo e licenças de fonte e fotos ainda ficam por fazer."]
+  ["The 30 minutes show the speed of exploration, not the time of a complete project. Validation, content review and font and photo licensing are still to come.","Os 30 minutos mostram a velocidade de exploração, não o tempo de um projeto completo. Validação, revisão de conteúdo e licenças de fonte e fotos ainda ficam por fazer."],
+  ["Portuguese and English","Português e inglês"],
+  ["A switch in the header changes the language and keeps the current section, for customers who follow the roadmap in either language.","Um seletor no cabeçalho troca o idioma e mantém a seção atual, para clientes que acompanham o roadmap em qualquer uma das línguas."],
+  ["Contrast measured","Contraste medido"],
+  ["Text contrast was measured in both languages, on desktop and mobile, against the WCAG AA minimum, including active filters.","O contraste dos textos foi medido nos dois idiomas, no desktop e no celular, contra o mínimo WCAG AA, inclusive com filtros ativos."]
 ]);
